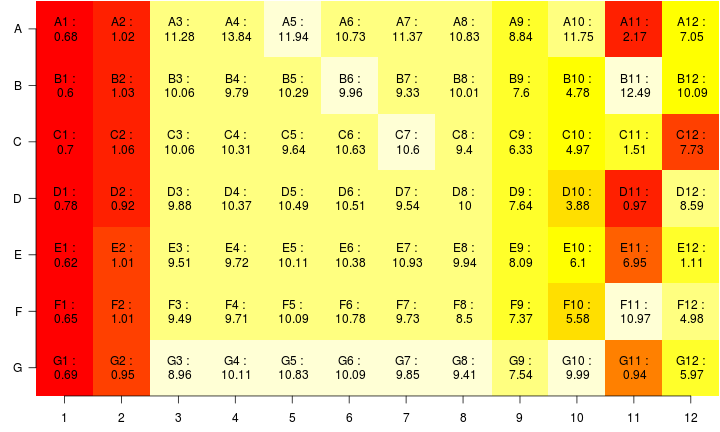
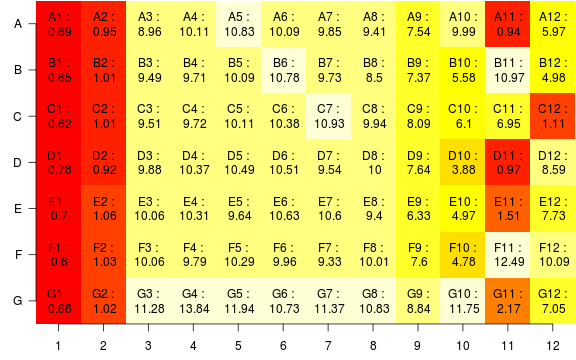
publishing deck

diff --git a/index.html b/index.html
@@ -3150,17 +3150,23 @@ head(results)
 
 <slide class="codefont" id="slide-38" style="background:;">
   <article data-timings="">
-    <pre><code class="r">imgdat &lt;- apply(matrix(results[,3], nrow=7, ncol=12), 2, rev) # what&#39;s happening here?
-imgtxt &lt;- matrix(results[,1], nrow=7, ncol=12)
+    <pre><code class="r">imgtxt &lt;- matrix(results[,1], nrow=7, ncol=12) # MATRIX THAT LOOKS LIKE PLATE
+imgdat &lt;- matrix(results[,3], nrow=7, ncol=12)
+tmp &lt;- t(apply(imgdat, 2, rev)) # WHAT HAPPENS HERE?
 par(mai=c(.5,.5,.01,.01))
-image(x=1:12, y=1:7, z=t(log(imgdat)), axes=FALSE, ylab=NA, xlab=NA)
+image(x=1:12, y=1:7, z=log(tmp), axes=FALSE, ylab=NA, xlab=NA)
 text(x=rep(1:12,7), y=rep(7:1,each=12), paste(t(imgtxt),&quot;:\n&quot;,t(round(imgdat,2)))) 
 axis(1,at=1:12); axis(2, at=1:7, labels=toupper(letters[7:1]), las=2)
 </code></pre>
 
 <p><img src="assets/fig/unnamed-chunk-31-1.png" alt="plot of chunk unnamed-chunk-31"></p>
 
-<p><oq>In which order does <code>image</code> plot rows and columns of a matrix?</oq></p>
+<p><oq>In which order does <code>image</code> plot rows and columns of a matrix?</oq><br/> 
+<oq>Can you spot any systematic plate effects?</oq></p>
+
+<p><br/><br/>hide:
+pixels in the first row, from left to right,<br/> 
+correspond to the first column in the matrix, bottom up</p>
 
   </article>
   <!-- Presenter Notes -->

diff --git a/index.md b/index.md
@@ -3550,17 +3550,23 @@ head(results)
 
 
 ```r
-imgdat <- apply(matrix(results[,3], nrow=7, ncol=12), 2, rev) # what's happening here?
-imgtxt <- matrix(results[,1], nrow=7, ncol=12)
+imgtxt <- matrix(results[,1], nrow=7, ncol=12) # MATRIX THAT LOOKS LIKE PLATE
+imgdat <- matrix(results[,3], nrow=7, ncol=12)
+tmp <- t(apply(imgdat, 2, rev)) # WHAT HAPPENS HERE?
 par(mai=c(.5,.5,.01,.01))
-image(x=1:12, y=1:7, z=t(log(imgdat)), axes=FALSE, ylab=NA, xlab=NA)
+image(x=1:12, y=1:7, z=log(tmp), axes=FALSE, ylab=NA, xlab=NA)
 text(x=rep(1:12,7), y=rep(7:1,each=12), paste(t(imgtxt),":\n",t(round(imgdat,2)))) 
 axis(1,at=1:12); axis(2, at=1:7, labels=toupper(letters[7:1]), las=2)
 ```
 
 ![plot of chunk unnamed-chunk-31](assets/fig/unnamed-chunk-31-1.png)
 
-<oq>In which order does `image` plot rows and columns of a matrix?</oq>
+<oq>In which order does `image` plot rows and columns of a matrix?</oq><br/> 
+<oq>Can you spot any systematic plate effects?</oq>
+
+<br/><br/>hide:
+pixels in the first row, from left to right,<br/> 
+correspond to the first column in the matrix, bottom up
 
 ---
 ### Gene Expression - Summary
